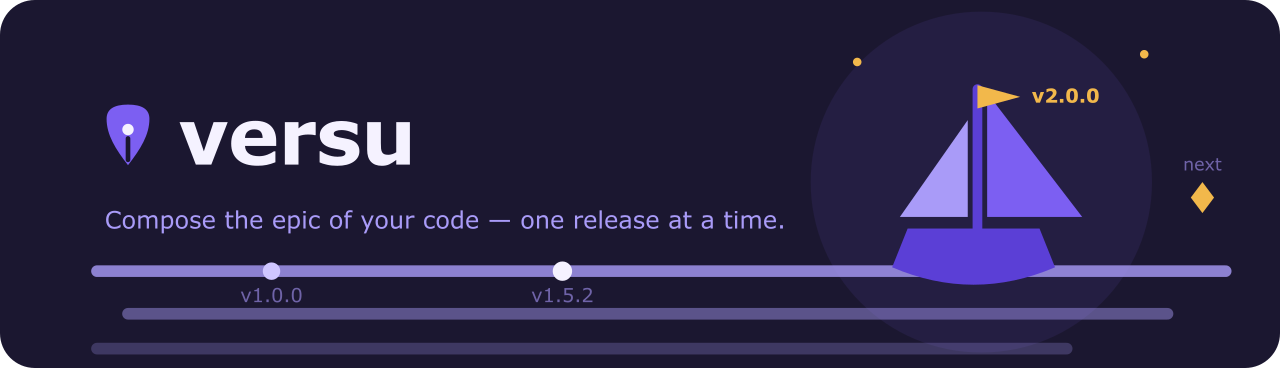
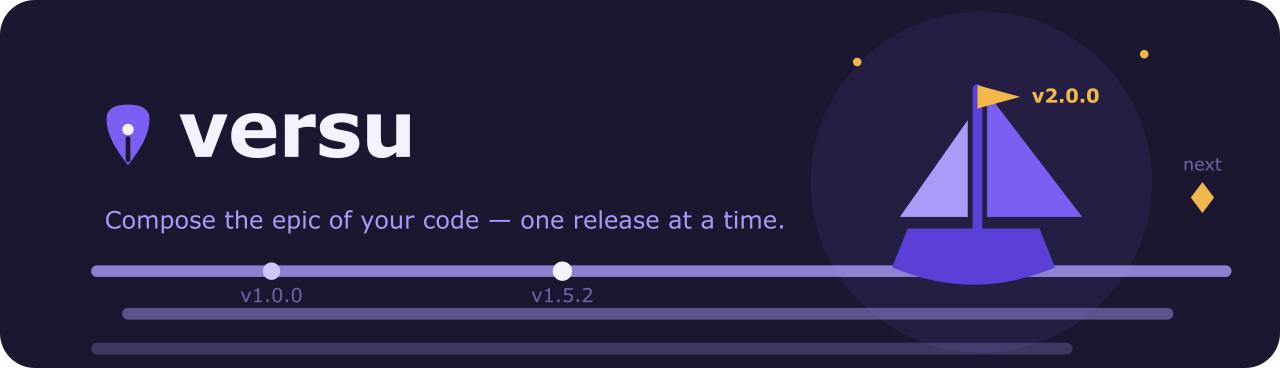
docs: update documentation

Changed region(s): [[0.125, 0.2989, 0.3438, 0.4484]]

diff --git a/README.md b/README.md
@@ -16,13 +16,13 @@ npm install @versu/core @versu/plugin-node
 
 ## Usage
 
+Once installed, the plugin is discovered automatically from `node_modules` (or list it explicitly in the `plugins` array of your `versu.config.js`):
+
 ```typescript
 import { VersuRunner } from '@versu/core';
-import nodePlugin from '@versu/plugin-node';
 
 const runner = new VersuRunner({
   repoRoot: '/path/to/repository',
-  plugins: [nodePlugin],
   adapter: 'node', // Optional - auto-detected
   // ...other options as needed
 });